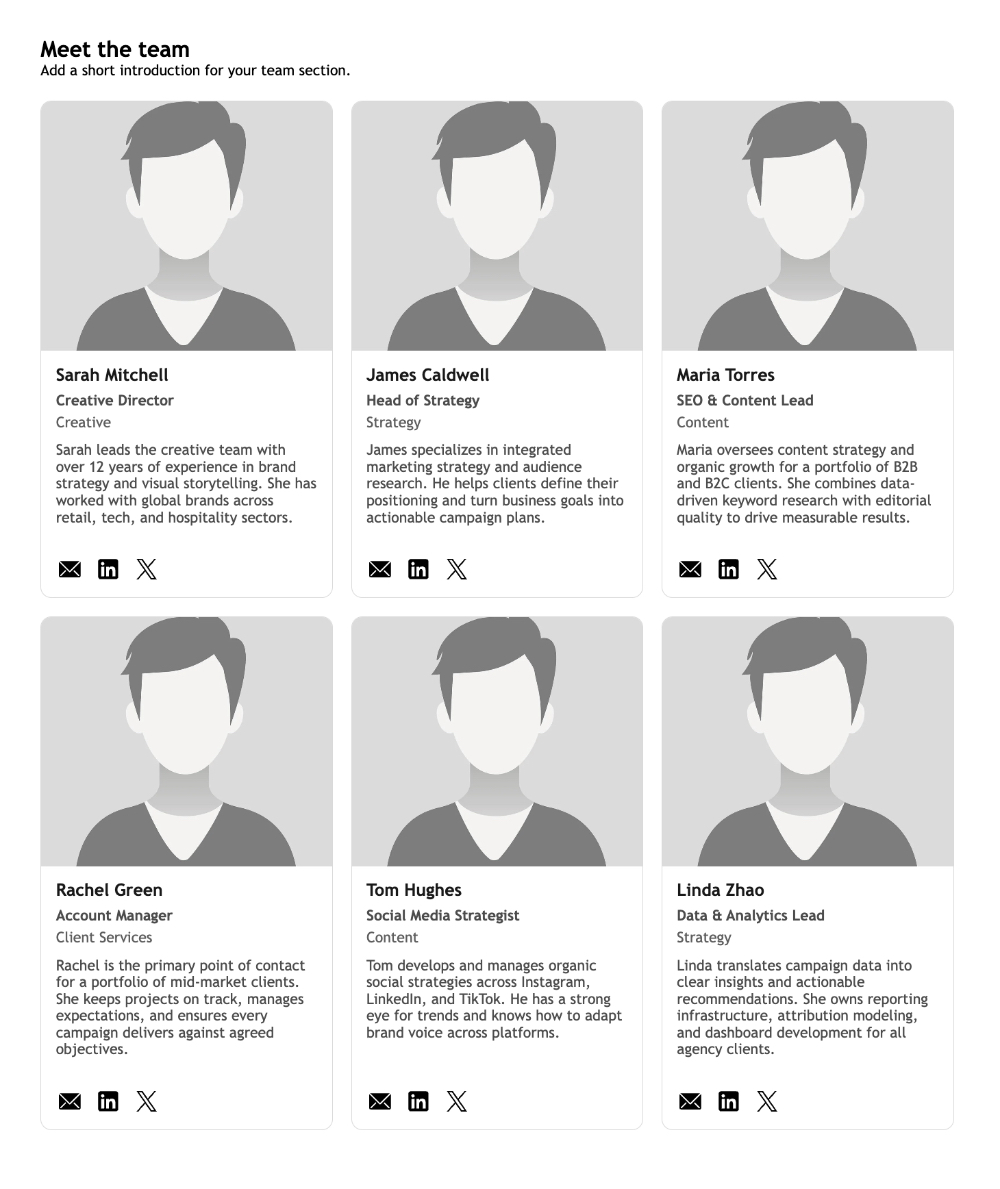
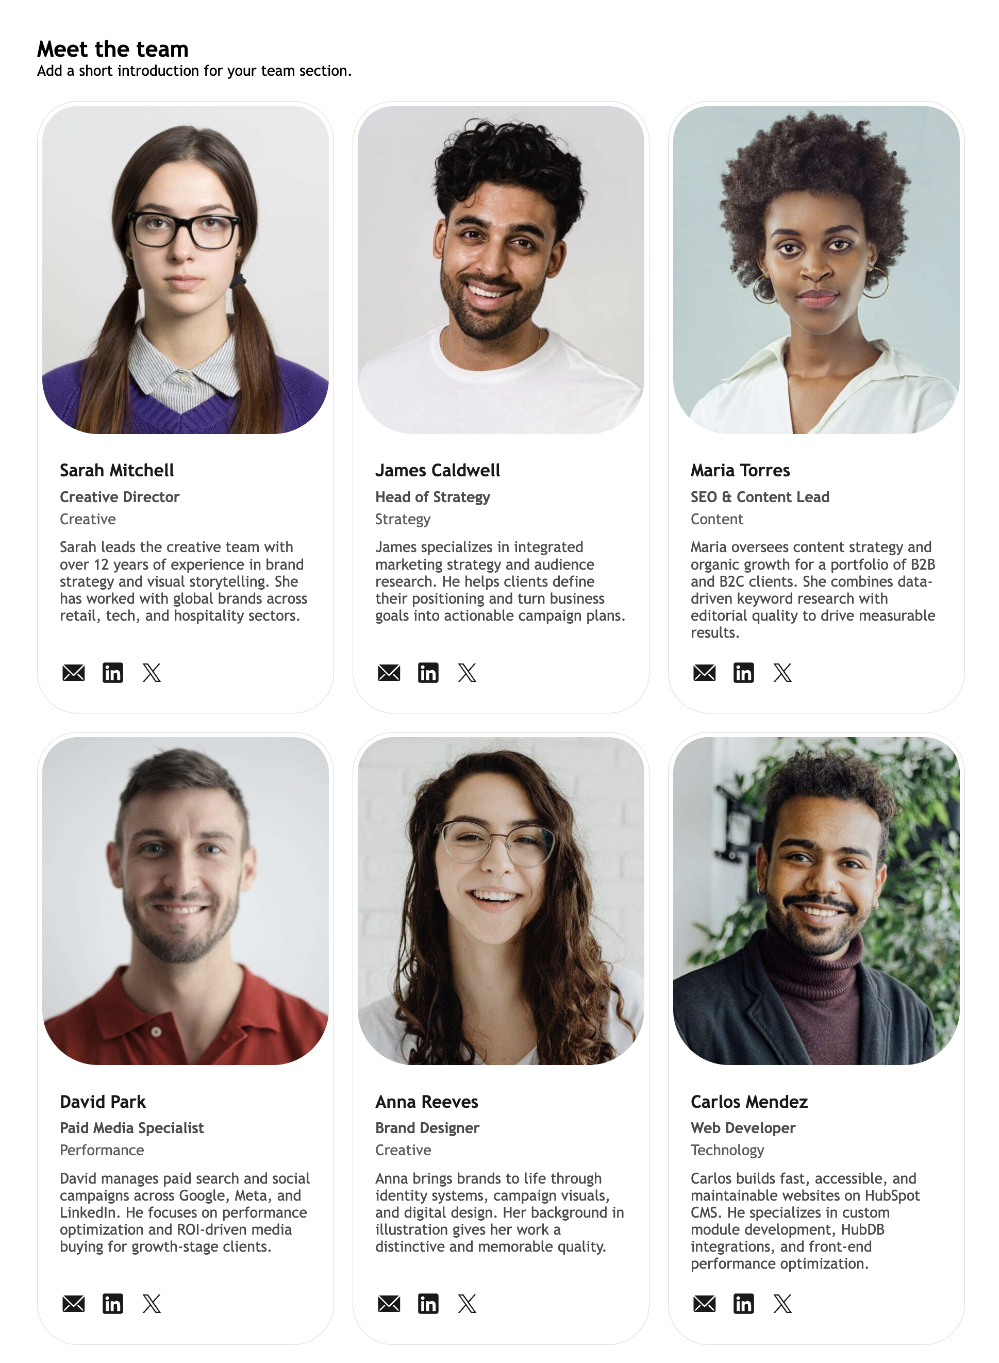
Update styles and preview

diff --git a/modules/team-members.module/module.css b/modules/team-members.module/module.css
@@ -29,12 +29,18 @@
     align-content: space-between;
 	overflow: hidden;
 	border: 1px solid var(--ht-team-members-card-border);
-	border-radius: 0.75rem;
 	background: var(--ht-team-members-card-background);
+    border-radius: 2.75rem;
+}
+.ht-team-members__card:hover .ht-team-members__image {
+    transform: scale(1.07);
 }
 
 .ht-team-members__media {
-  	aspect-ratio: 7 / 6;
+	aspect-ratio: 7 / 8;
+	border-radius: 38px 38px 60px 60px;
+	overflow: hidden;
+	margin: 5px 5px 0 5px;
 }
 
 .ht-team-members__image {
@@ -42,14 +48,16 @@
 	height: 100%;
 	object-fit: cover;
 	display: block;
+	transition: all 0.8s ease;
 }
 
 .ht-team-members__content {
   	padding: 1rem;
+	padding: 1.8rem 1.5rem 1.2rem 1.5rem;
 }
 
 .ht-team-members__actions {
-  	padding: 1rem 1rem 1rem 1rem;
+	padding: 0 1.5rem 1.8rem 1.5rem;
 }
 
 .ht-team-members__name {
@@ -128,3 +136,5 @@
 		grid-template-columns: repeat(3, minmax(0, 1fr));
 	}
 }
+
+
